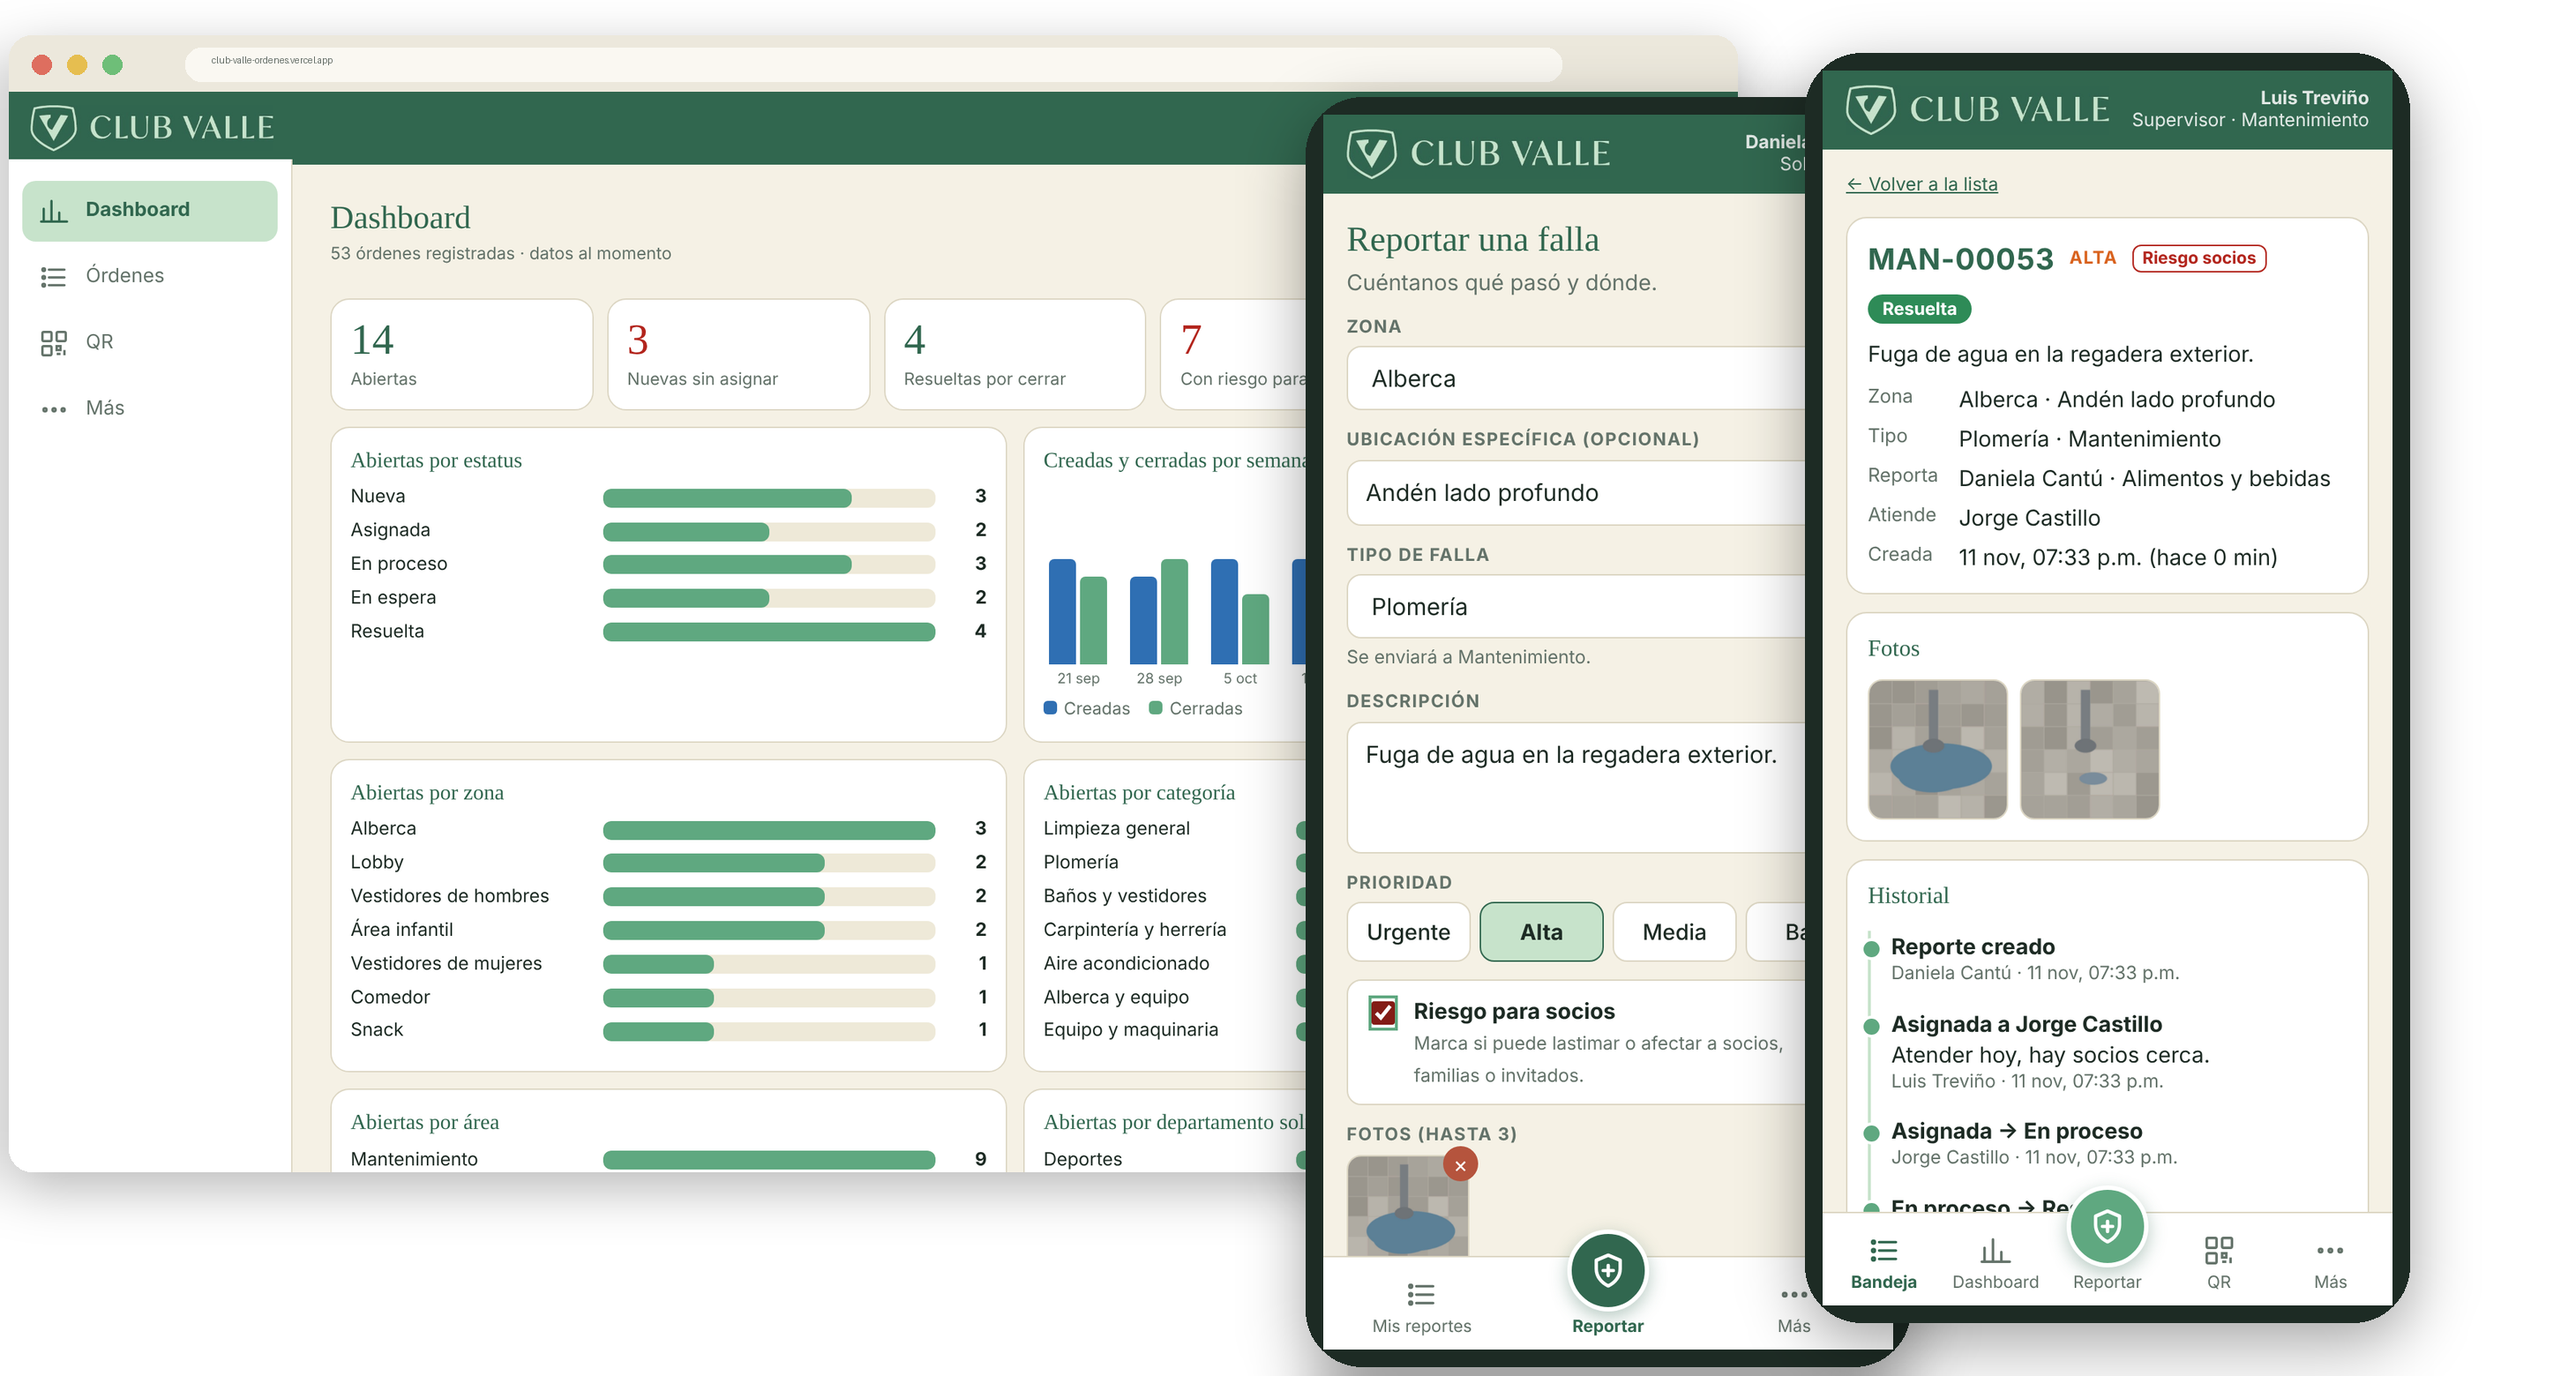
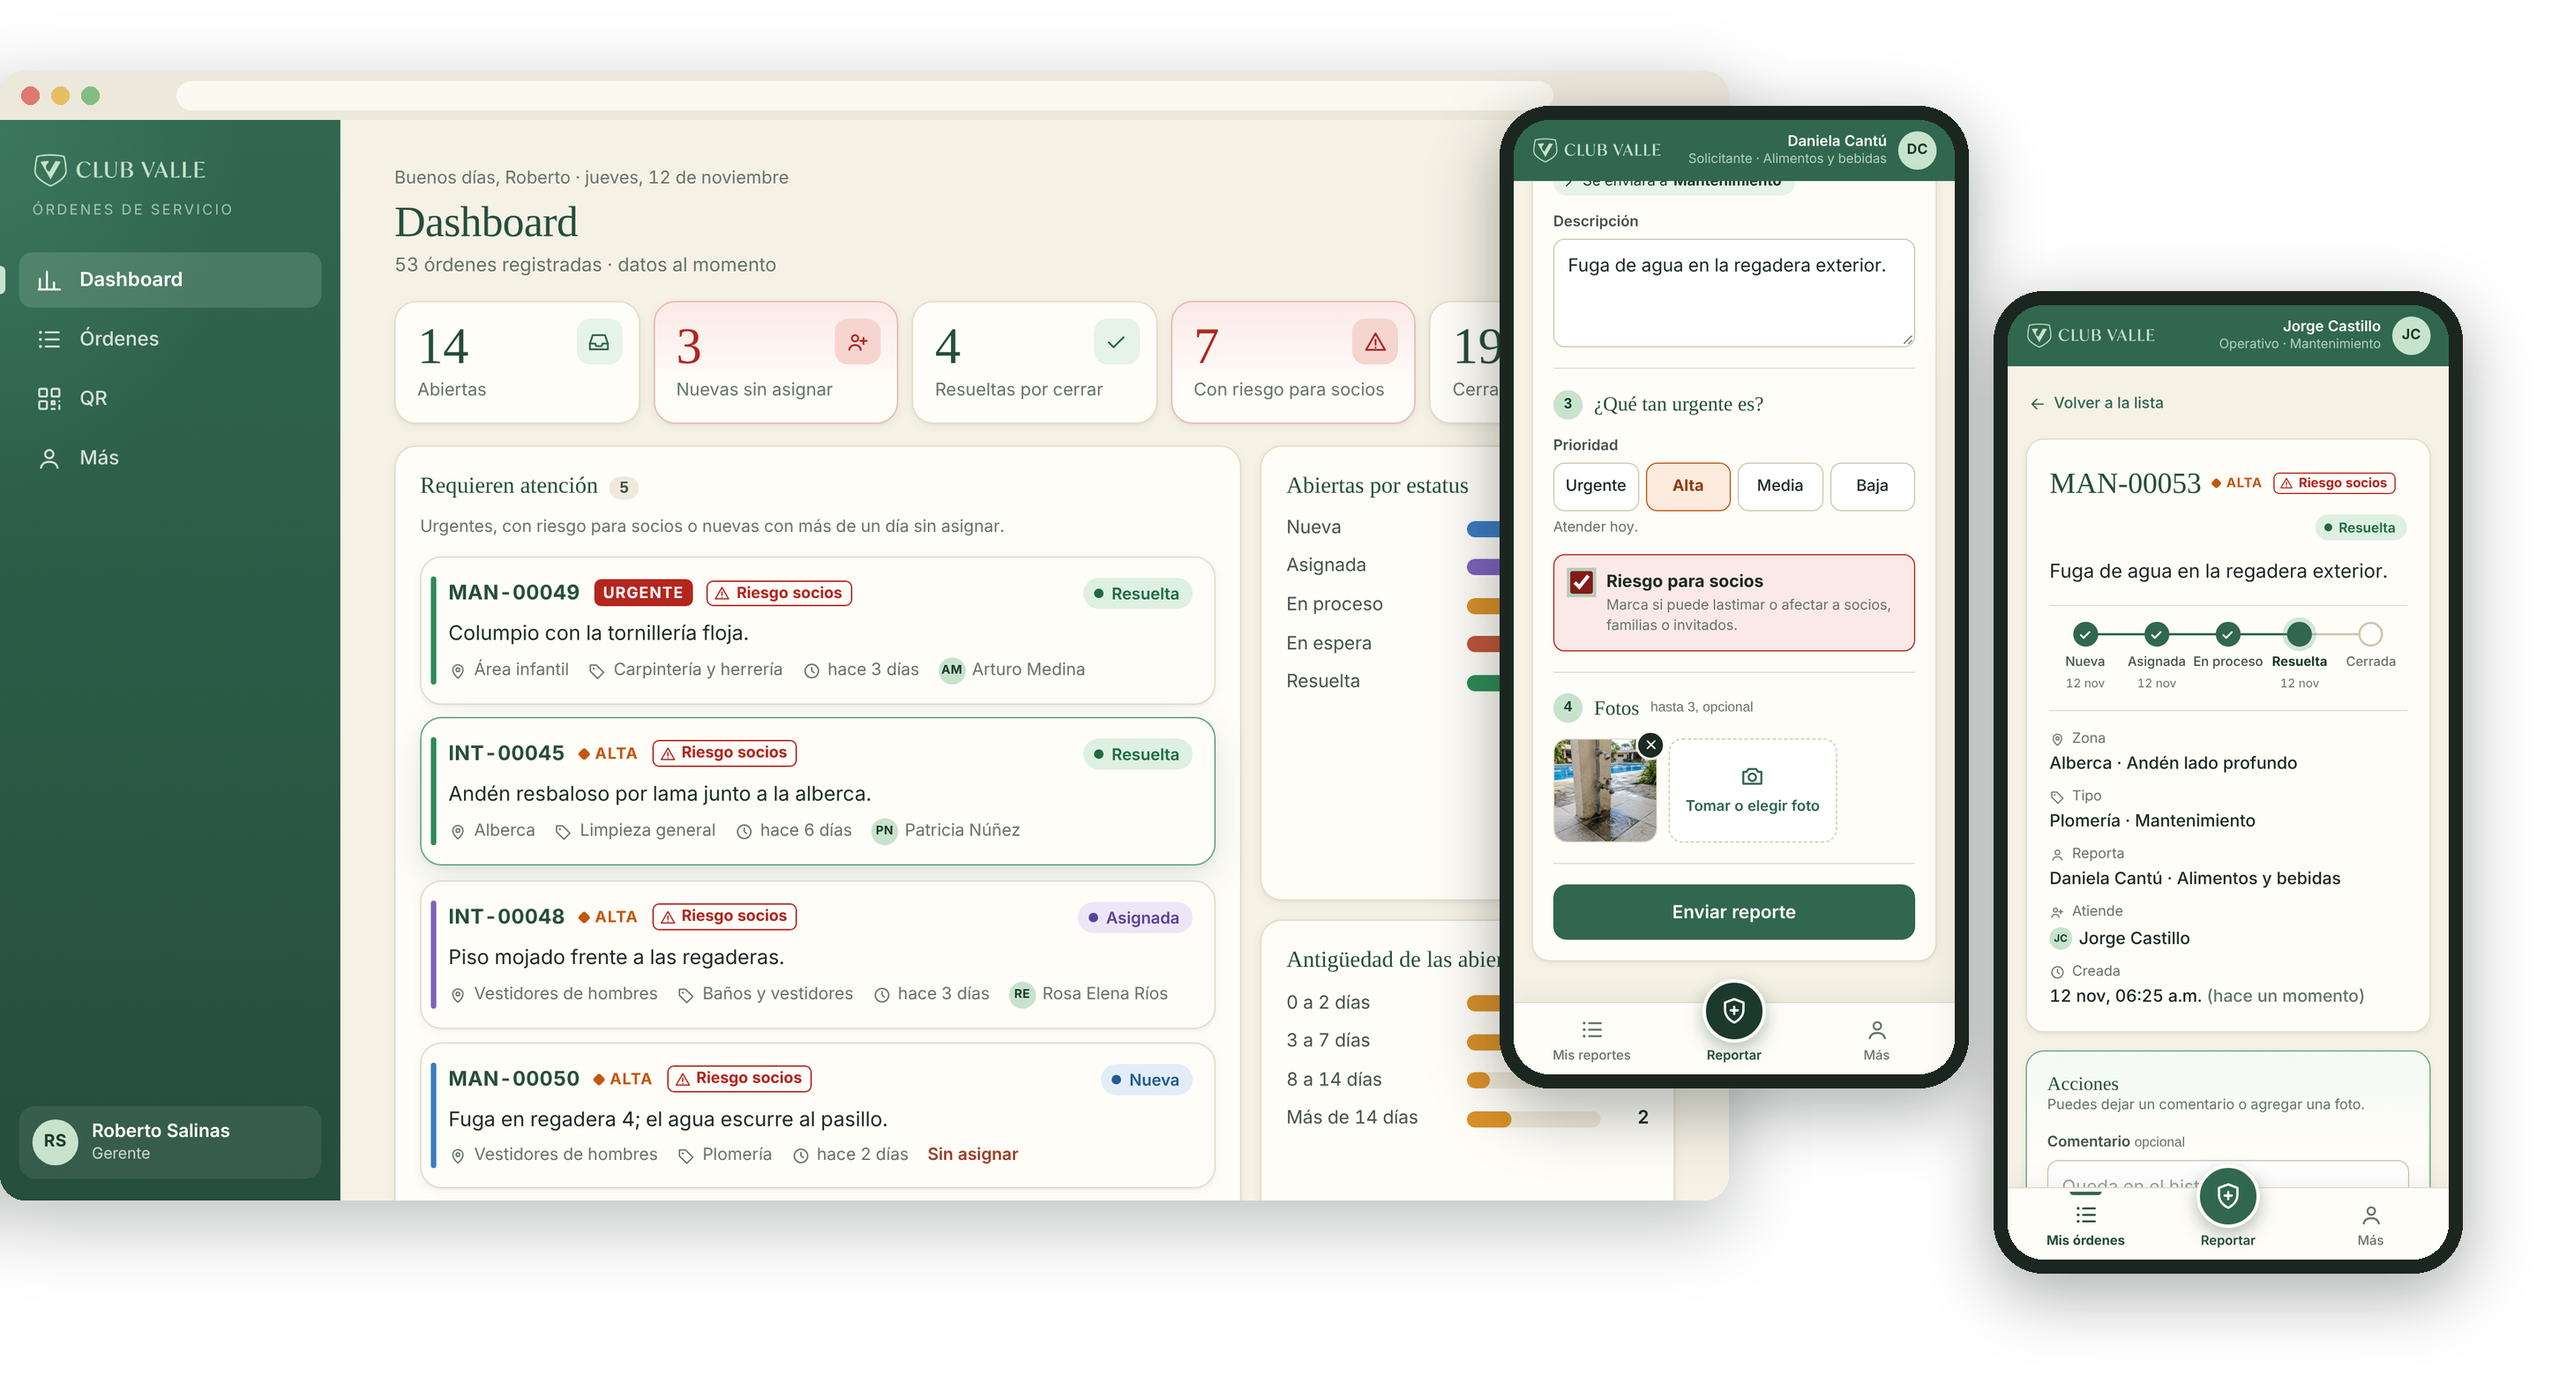
Slides: capturas del diseño nuevo, fases (bot de WhatsApp, módulo a elegir) y anexo de siguientes fases
Claude-Session: https://claude.ai/code/session_01X8QidoDmh2TCKVgjRGDwAX

diff --git a/slides/build.js b/slides/build.js
@@ -104,7 +104,7 @@ pres.defineSlideMaster({
     s1.addText(desc, { x: 1.2, y: y + 0.22, w: 3.7, h: 0.26, fontSize: 13, color: C.text1, valign: "top", margin: 0, isTextBox: true, objectName: `Paso ${n} detalle` });
   });
   s1.addText("Complementa la app de socios: no la sustituye ni la modifica.", { x: 0.6, y: 6.32, w: 4.5, h: 0.5, fontSize: 12, italic: true, color: C.accent4, valign: "top", margin: 0, isTextBox: true, objectName: "Nota complementa" });
-  s1.addImage({ path: path.join(__dirname, "hero_plataforma.png"), x: 5.43, y: 2.85, w: 7.3, h: 7.3 * 1560 / 2920, altText: "Captura de la plataforma: tablero del gerente en computadora, y formulario de reporte y detalle de una orden en el celular", objectName: "Capturas de la plataforma" });
+  s1.addImage({ path: path.join(__dirname, "hero_plataforma.png"), x: 5.43, y: 2.85, w: 7.3, h: 7.3 * 1560 / 2918, altText: "Captura de la plataforma: tablero del gerente en computadora, y formulario de reporte y detalle de una orden en el celular", objectName: "Capturas de la plataforma" });
   s1.addNotes(
     "Mensaje: hoy no hay una plataforma para reportar y dar seguimiento a las fallas del club. " +
     "Lo que se propone es una herramienta adicional, que no toca la app de socios. " +
@@ -123,8 +123,8 @@ pres.defineSlideMaster({
 
   const phases = [
     ["1", "Piloto de mantenimiento e intendencia", "90 días, con roles de gerente, supervisor y operativo."],
-    ["2", "Pedidos con QR", "Comedor y snack, con la misma infraestructura de QR por zona."],
-    ["3", "Pago a la cuenta del socio", "Sujeto a la integración con el sistema de cobranza actual."],
+    ["2", "Bot en el WhatsApp del club", "Reportar con foto y recibir avisos de estatus por WhatsApp."],
+    ["3", "Un módulo a elegir", "Pedidos con QR, canchas, eventos o preventivo (ver anexo)."],
   ];
   phases.forEach(([n, head, desc], i) => {
     const y = 2.95 + i * 0.95;
@@ -165,10 +165,46 @@ pres.defineSlideMaster({
   s2.addNotes(
     "Mensaje: se pide aprobar un piloto acotado, no un proyecto grande. " +
     "Hoy el club no mide tiempos de atención; el piloto da la primera línea base con datos reales. " +
-    "Las fases 2 y 3 son una oportunidad, no un compromiso: la fase 3 depende de poder integrarse con el sistema de cobranza actual. " +
+    "Las fases 2 y 3 son una oportunidad, no un compromiso. La fase 2 es un bot en la cuenta de WhatsApp del club: el personal reporta con foto y quien reportó recibe avisos de cada cambio de estatus; requiere la cuenta de WhatsApp Business del club y se cotiza aparte. La fase 3 es un módulo que el club elige del anexo. " +
     "Inversión: $35,000 de implementación única y $5,500 mensuales; el piloto de 3 meses suma $51,500 más IVA ($59,740 con IVA). " +
     "Condiciones de lanzamiento (para conversar, no en la slide): si se contrata el año al cerrar el piloto, se acredita el 50% de la implementación contra la primera anualidad, vigente 30 días después del piloto. " +
     "Los datos son del club y se pueden exportar en cualquier momento."
+  );
+
+  // =====================================================================
+  // SLIDE 3 · Anexo: siguientes fases
+  // =====================================================================
+  const fa = require("react-icons/fa");
+  pres.addSection({ title: "Anexo" });
+  const s3 = pres.addSlide({ masterName: "CV_CONTENIDO", sectionTitle: "Anexo" });
+  s3.addText("ANEXO · SIGUIENTES FASES", { placeholder: "eyebrow" });
+  s3.addText("Opciones para crecer sobre la misma plataforma", { placeholder: "title" });
+  s3.addText("Cada módulo reutiliza usuarios, roles y QR por zona. El orden se define con el club.", { placeholder: "lead" });
+  const mods = [
+    [fa.FaQrcode, "Pedidos con QR", "Comedor, snack y alberca: el socio pide desde su mesa o camastro.", "Cotización aparte"],
+    [fa.FaTableTennis, "Canchas de tenis y pádel", "Reserva por horario, con reglas por membresía y lista de espera.", "Se define junto a la app de socios"],
+    [fa.FaCalendarCheck, "Reserva de eventos y salones", "Solicitud, disponibilidad, cotización y montaje como orden de servicio.", "Reutiliza las órdenes"],
+    [fa.FaTools, "Mantenimiento preventivo", "Rutinas por zona y equipo: alberca, aire acondicionado, gimnasio.", "Calendario automático"],
+    [fa.FaChartLine, "Tiempos de atención", "Metas por tipo de falla y alertas de órdenes rezagadas.", "Con base en datos del piloto"],
+    [fa.FaCreditCard, "Pago a la cuenta del socio", "Cargo de pedidos y reservas a la cuenta del socio.", "Requiere integrar la cobranza"],
+  ];
+  const gx = 0.6, gy = 2.95, cw = 3.9, ch = 1.8, gap = 0.215, gv = 0.15;
+  for (let i = 0; i < mods.length; i++) {
+    const [Ic, head, desc, tag] = mods[i];
+    const x = gx + (i % 3) * (cw + gap), y = gy + Math.floor(i / 3) * (ch + gv);
+    s3.addShape(pres.shapes.RECTANGLE, { x, y, w: cw, h: ch, fill: { color: C.background1 }, line: { color: C.background1, width: 0 }, shadow: cardShadow(), objectName: `Módulo ${i + 1} tarjeta` });
+    s3.addShape(pres.shapes.OVAL, { x: x + 0.25, y: y + 0.25, w: 0.5, h: 0.5, fill: { color: C.accent2 }, line: { color: C.accent2, width: 0 }, objectName: `Módulo ${i + 1} círculo` });
+    s3.addImage({ data: await icon(Ic, "31674F"), x: x + 0.38, y: y + 0.38, w: 0.24, h: 0.24, altText: head, objectName: `Módulo ${i + 1} ícono` });
+    s3.addText(head, { x: x + 0.9, y: y + 0.25, w: cw - 1.1, h: 0.5, fontSize: 16, bold: true, fontFace: "Cambria", color: C.text1, valign: "middle", margin: 0, isTextBox: true, objectName: `Módulo ${i + 1} título` });
+    s3.addText(desc, { x: x + 0.25, y: y + 0.88, w: cw - 0.5, h: 0.5, fontSize: 13, color: C.text1, valign: "top", margin: 0, isTextBox: true, objectName: `Módulo ${i + 1} detalle` });
+    s3.addText(tag, { x: x + 0.25, y: y + 1.4, w: cw - 0.5, h: 0.28, fontSize: 12, bold: true, color: C.accent1, margin: 0, isTextBox: true, objectName: `Módulo ${i + 1} etiqueta` });
+  }
+  s3.addNotes(
+    "Slide de anexo: para el gerente o para responder preguntas del consejo; no es parte de la solicitud de aprobación. " +
+    "Todo se construye sobre lo mismo: usuarios, roles y QR por zona. " +
+    "Pedidos con QR se cotiza aparte; el pago a la cuenta del socio depende de integrarse con el sistema de cobranza. " +
+    "Canchas y eventos: la app de socios ya cubre parte de las reservas, así que antes de construir se define si conviene complementar o integrarse, sin duplicar. " +
+    "El bot de WhatsApp ya es la fase 2. Preventivo y tiempos de atención aprovechan los datos que deje el piloto."
   );
 
   await pres.writeFile({ fileName: OUT });

diff --git a/slides/hero.py b/slides/hero.py
@@ -1,0 +1,31 @@
+# Compone hero_plataforma.png: dashboard en ventana + dos celulares. Uso: python3 slides/hero.py <dir_capturas>
+import sys, os
+from PIL import Image, ImageDraw, ImageFilter
+D = sys.argv[1] if len(sys.argv) > 1 else "/tmp/shots3"
+W, H = 2920, 1560
+out = Image.new("RGBA", (W, H), (0, 0, 0, 0))
+def rr(im, r):
+    m = Image.new("L", im.size, 0); ImageDraw.Draw(m).rounded_rectangle([0, 0, im.size[0]-1, im.size[1]-1], r, fill=255)
+    im = im.convert("RGBA"); im.putalpha(m); return im
+def shadow(box, r, blur=40, off=24, a=70):
+    s = Image.new("RGBA", (W, H), (0, 0, 0, 0)); d = ImageDraw.Draw(s)
+    x0, y0, x1, y1 = box; d.rounded_rectangle([x0, y0+off, x1, y1+off], r, fill=(20, 40, 30, a))
+    out.alpha_composite(s.filter(ImageFilter.GaussianBlur(blur)))
+# ventana de escritorio
+dash = Image.open(f"{D}/dashboard.png").convert("RGB")
+dw = 1960; dh = int(dash.height * dw / dash.width); dash = dash.resize((dw, dh), Image.LANCZOS)
+bar = 56; wx, wy = 0, 80
+win = Image.new("RGB", (dw, dh + bar), (236, 232, 220)); win.paste(dash, (0, bar))
+d = ImageDraw.Draw(win)
+for i, c in enumerate([(224, 120, 110), (230, 190, 100), (130, 190, 130)]): d.ellipse([24+i*34, 18, 24+i*34+20, 38], fill=c)
+d.rounded_rectangle([200, 12, dw-200, 44], 16, fill=(250, 248, 240))
+win = rr(win, 28); shadow((wx, wy, wx+dw, wy+dh+bar), 28); out.alpha_composite(win, (wx, wy))
+# celulares
+def phone(name, x, y, pw):
+    im = Image.open(f"{D}/{name}.png").convert("RGB"); ph = int(im.height * pw / im.width); im = im.resize((pw, ph), Image.LANCZOS)
+    b = 16; fr = Image.new("RGB", (pw+2*b, ph+2*b), (28, 38, 33)); fr.paste(rr(im, 40).convert("RGB"), (b, b), rr(im, 40))
+    fr = rr(fr, 56); shadow((x, y, x+fr.width, y+fr.height), 56, 36, 22, 90); out.alpha_composite(fr, (x, y)); return fr.size
+phone("reportar", 1700, 120, 500)
+phone("detalle", 2260, 330, 500)
+bb = out.getbbox(); out = out.crop((0, 0, min(W, bb[2]+40), min(H, bb[3]+60)))
+out.save(os.path.join(os.path.dirname(__file__), "hero_plataforma.png")); print(out.size)
